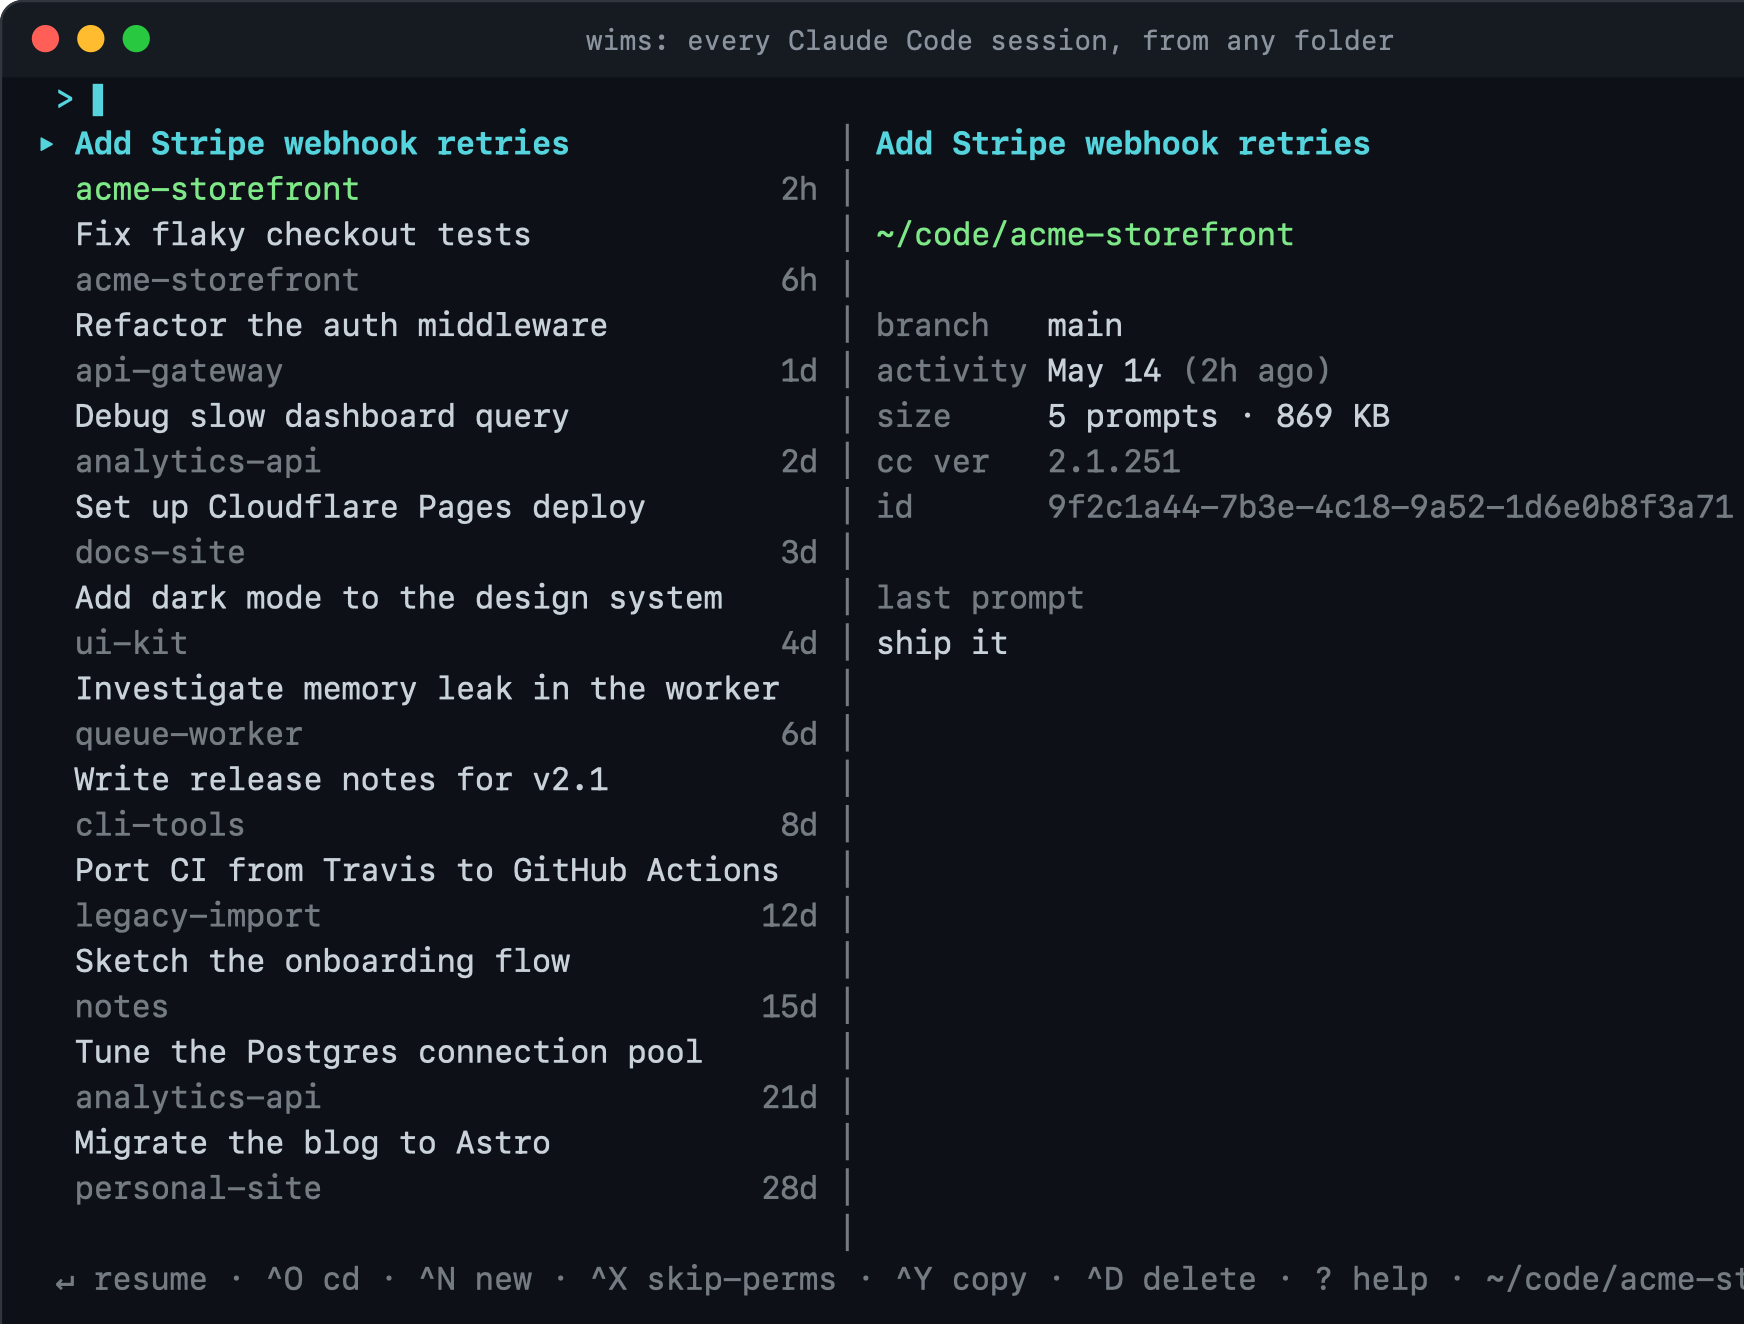
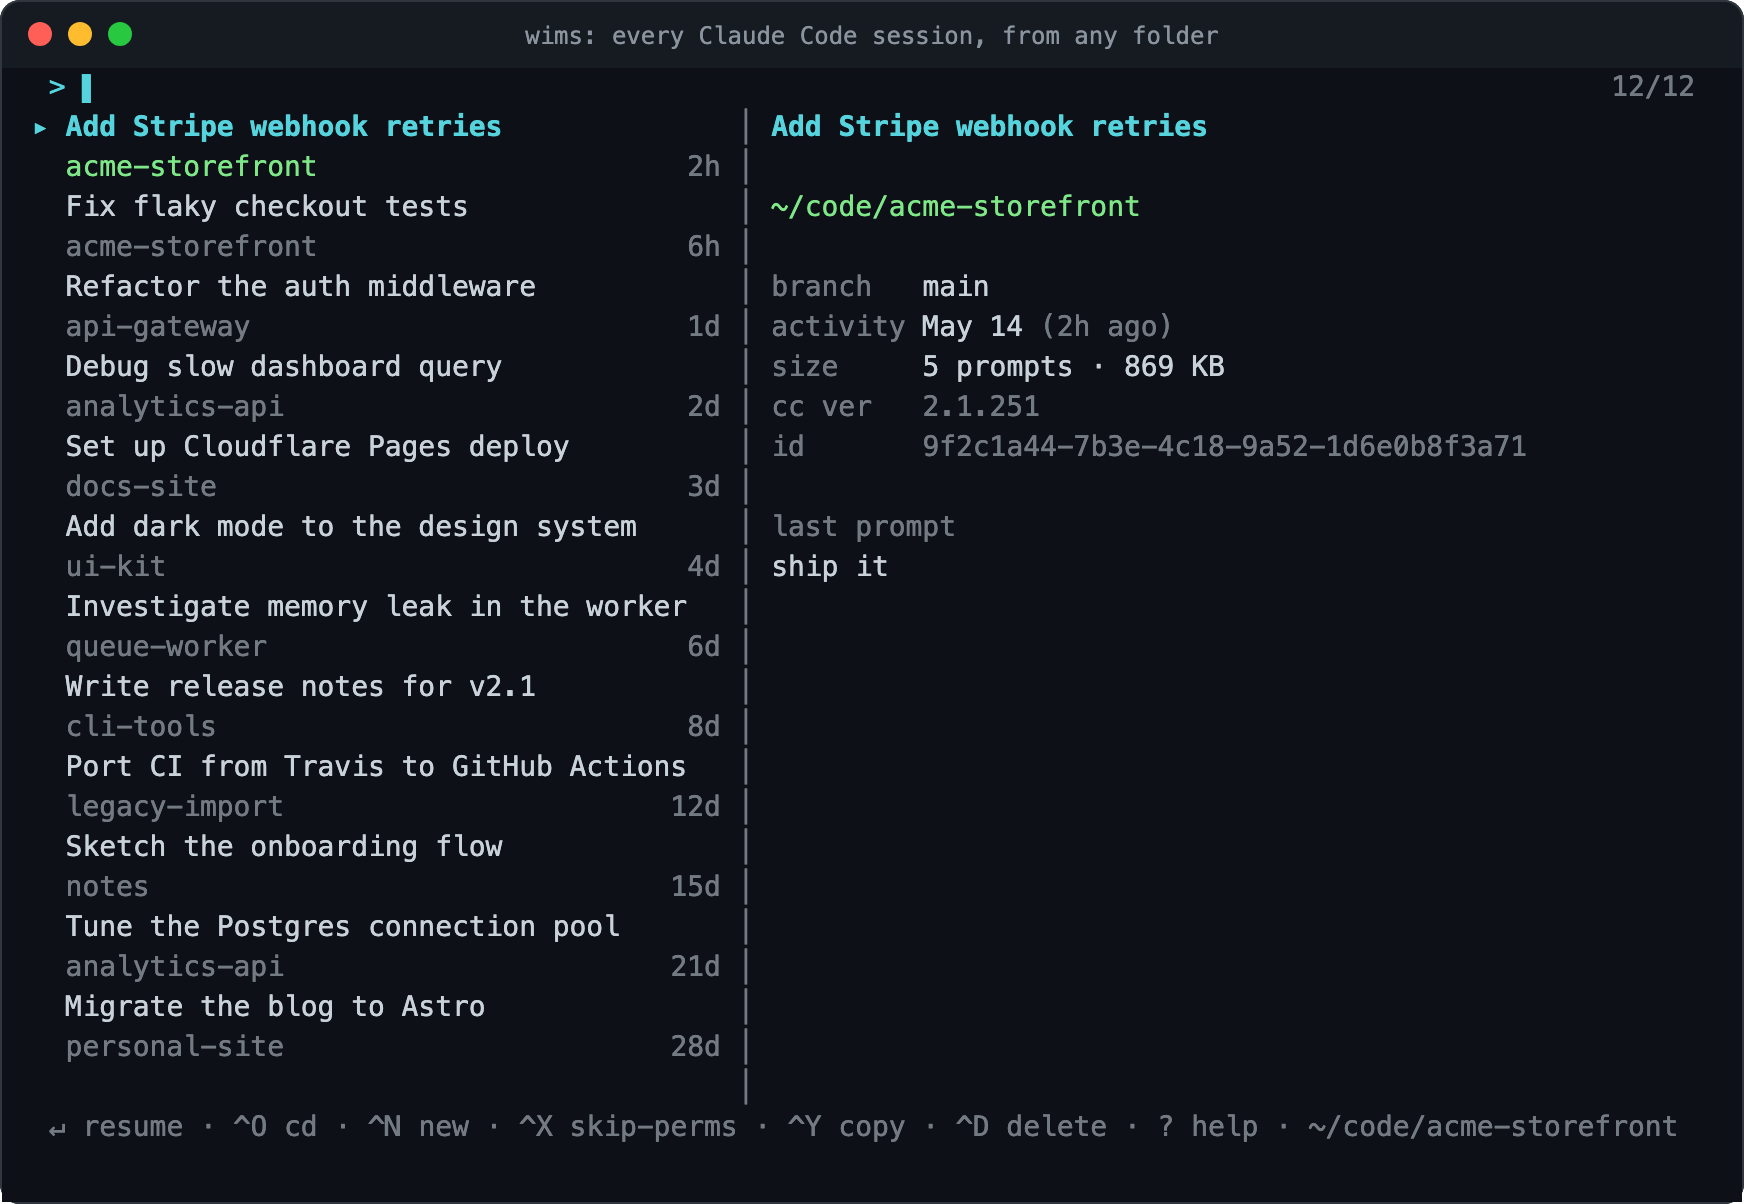
assets: rasterise screenshots with headless Chrome, add search PNG
qlmanage pads onto a square canvas and scales unpredictably, which clipped
the footer off the search screenshot however the crop was computed. Chrome
honours the SVG's declared size, so the PNGs now match the SVGs exactly.

- add assets/wims-search.png (WordPress rejects SVG uploads)
- give the search shot two rows of slack so nothing sits on the frame edge
- document the Chrome recipe and why qlmanage is not it

diff --git a/CONTRIBUTING.md b/CONTRIBUTING.md
@@ -124,13 +124,19 @@ since it contains your real folder paths and prompt text.
 
 ### The raster OG image
 
-`assets/wims.png` is a rasterised copy of `assets/wims.svg`, used as the social
-preview image where SVG is not supported. It is regenerated by hand on macOS,
-since it depends on QuickLook:
+`assets/*.png` are rasterised copies of the SVGs, for the places SVG is not
+supported: social previews, and WordPress, which blocks SVG uploads. Regenerate
+them with headless Chrome, which honours the SVG's declared size exactly:
 
 ```bash
-qlmanage -t -s 1744 -o /tmp assets/wims.svg
-ffmpeg -y -i /tmp/wims.svg.png -vf "crop=1744:1324:0:0" assets/wims.png
+CHROME="/Applications/Google Chrome.app/Contents/MacOS/Google Chrome"
+"$CHROME" --headless --disable-gpu --force-device-scale-factor=2 \
+  --window-size=872,602 --screenshot="$PWD/assets/wims.png" \
+  "file://$PWD/assets/wims.svg"
 ```
 
-Only refresh it when the SVG changes meaningfully.
+Use each SVG's own `width`/`height` for `--window-size`. Do not use macOS
+`qlmanage` for this: it pads the output onto a square canvas and scales in a way
+that silently clips the last row or two.
+
+Only refresh them when the SVGs change meaningfully.
